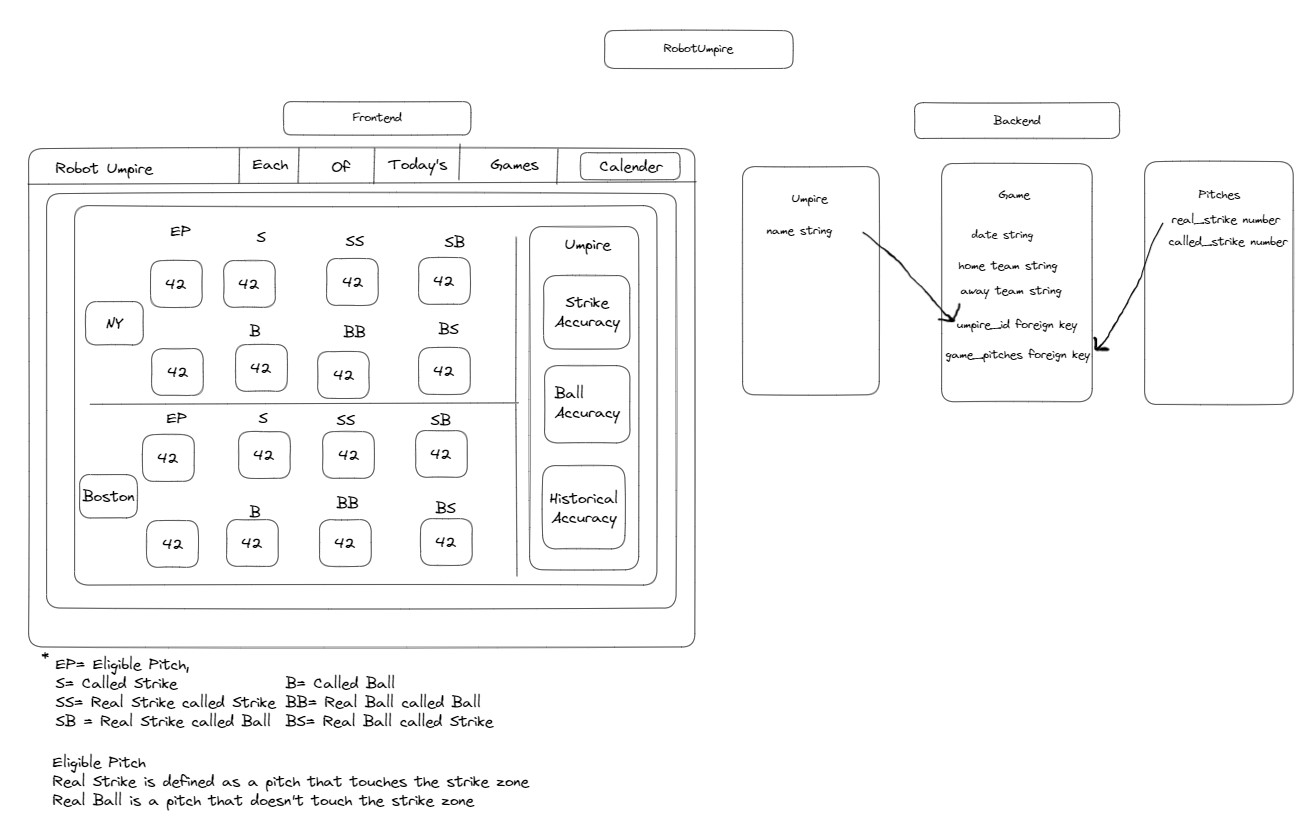
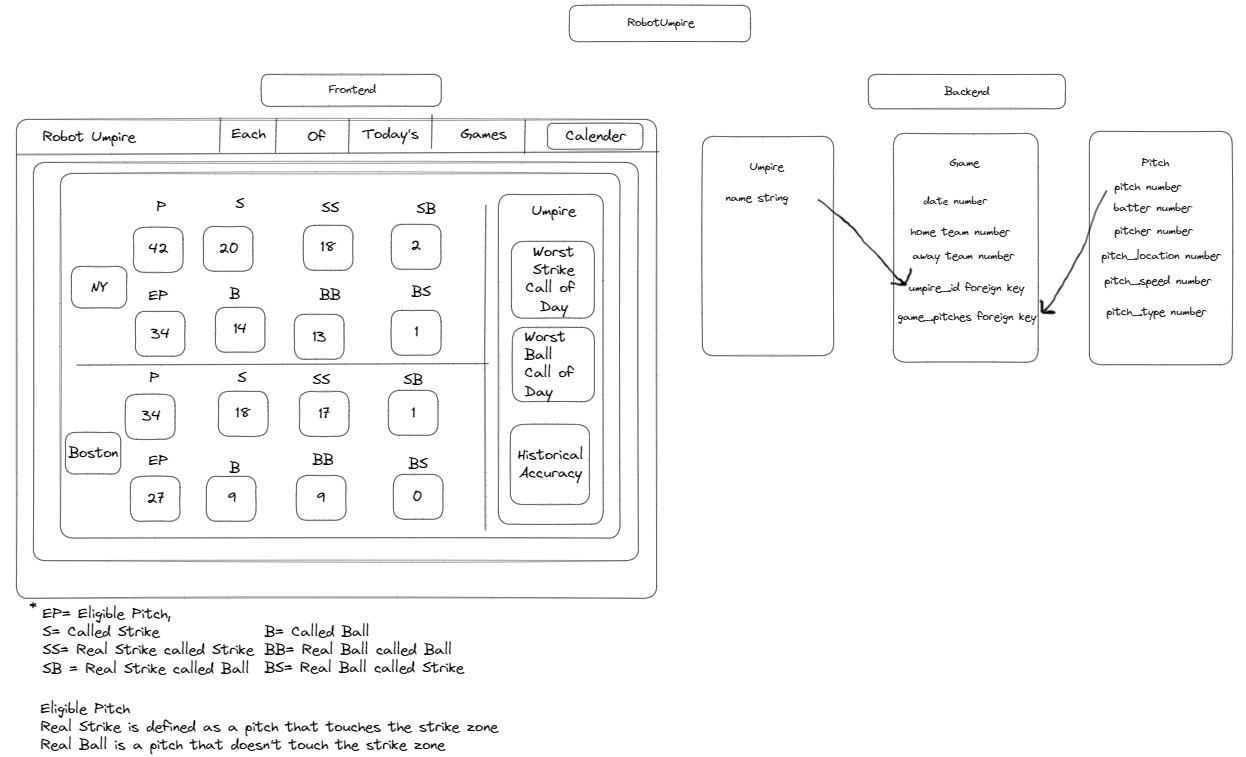
completed models

diff --git a/models/Pitch.js b/models/Pitch.js
@@ -3,19 +3,37 @@ const { Pitch } = require(".");
 
 // Schema to create Pitch model
 const pitchSchema = new Schema({
-  name: {
+  pitch_count: {
     type: String,
     unique: true,
     required: true,
     trimmed: true,
   },
-  name: {
+  batter: {
     type: Number,
     unique: true,
     required: true,
     trimmed: true,
   },
-  name: {
+  pitcher: {
+    type: Number,
+    unique: true,
+    required: true,
+    trimmed: true,
+  },
+  pitch_location: {
+    type: Number,
+    unique: true,
+    required: true,
+    trimmed: true,
+  },
+  pitch_speed: {
+    type: Number,
+    unique: true,
+    required: true,
+    trimmed: true,
+  },
+  pitch_type: {
     type: Number,
     unique: true,
     required: true,

diff --git a/models/Game.js b/models/Game.js
@@ -4,15 +4,15 @@ const { Schema, model } = require("mongoose");
 
 const gameSchema = new Schema({
   date: {
-    type: String,
+    type: Number,
     required: true,
   },
   homeTeam: {
-    type: String,
+    type: Number,
     required: true,
     },
   awayTeam: {
-    type: String,
+    type: Nunber,
     required: true,
   },
   umps: [umpSchema],

diff --git a/models/Ump.js b/models/Ump.js
@@ -3,8 +3,8 @@ const { Schema, model } = require("mongoose");
 // Schema to create Ump model
 const umpSchema = new Schema(
   {
-    name: {
-      type: String,
+    number: {
+      type: Number,
       unique: true,
       required: true,
       trimmed: true,
